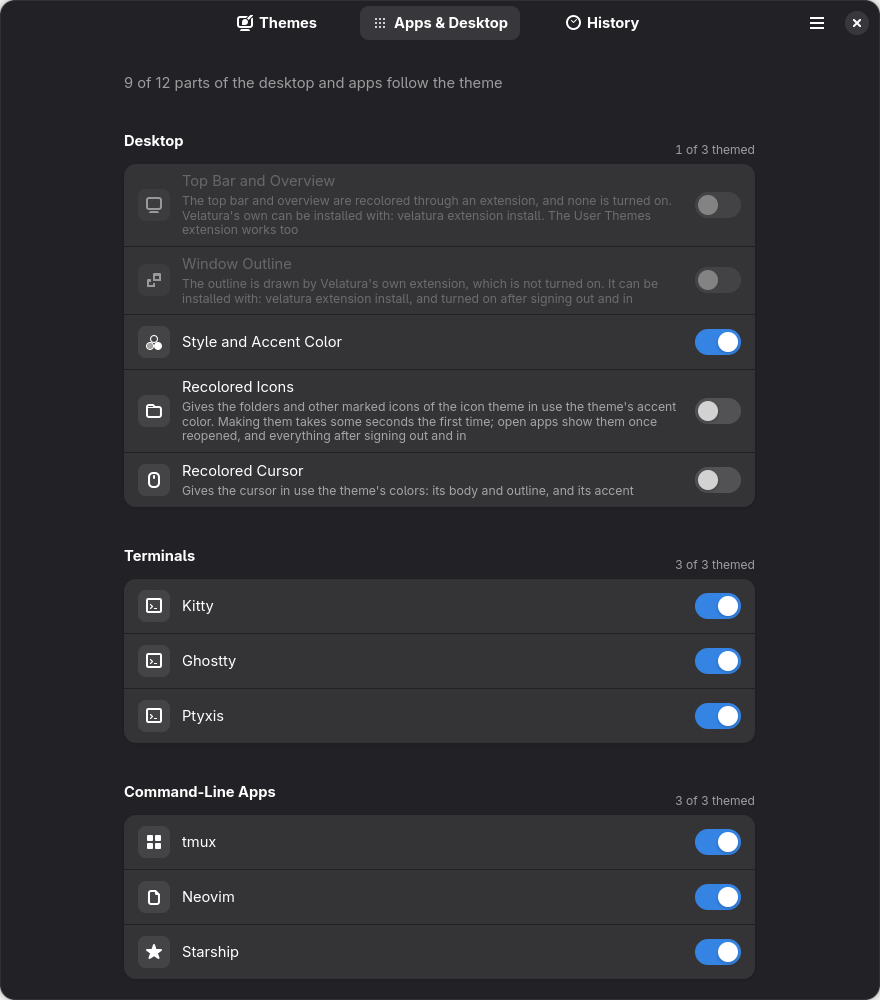
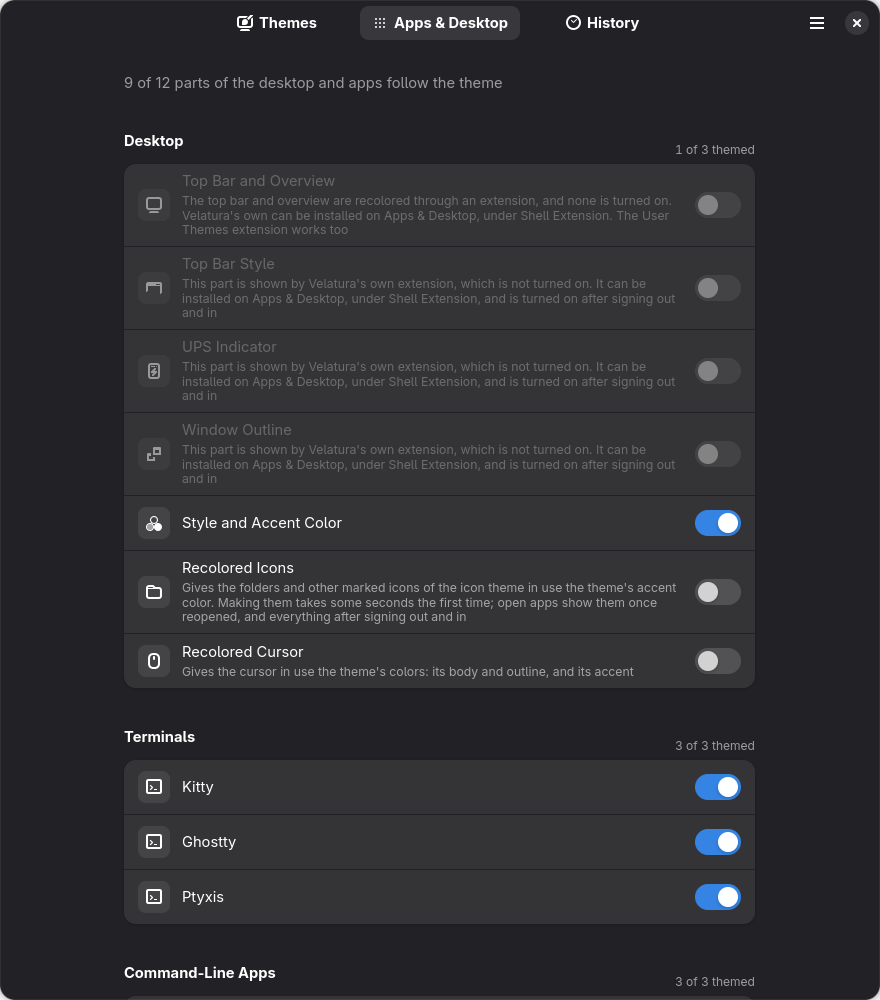
Docs: the architecture as built, the README's pictures, and neutral help text (#50)
From the deep review of 2026-10-17 (architecture reviewer, item 7; user
experience reviewer, item 18).

- docs/architecture.html described the Phase 0 design where the code
  went another way: Renderer and Connector traits, Facts, a lint
  guarding the host layer, a tests/ folder and Meson, `disconnect` and
  `--if-stale`, a translated command line, an extension that loads one
  stylesheet, connectors declaring capabilities. Each passage now says
  what was built, keeping the plan where it explains the design.
- The README's Themes and Apps & Desktop pictures are made again with
  scripts/gui-shots.sh from the same sandbox themes: the cards' menu
  buttons (D77), the Top Bar Style and UPS Indicator rows, and the rows'
  new wording.
- The command's help said "left to you", "your templates" and "your
  themes"; it is neutral now, as the interface guidelines ask.

diff --git a/docs/architecture.html b/docs/architecture.html
@@ -34,18 +34,18 @@ table{border-collapse:collapse;width:100%;margin:12px 0;font-size:14.5px}th,td{b
 ├── extension/             optional GNOME Shell companion extension (JavaScript)
 ├── data/                  desktop file, icons, metainfo
 ├── po/                    translations
-├── tests/                 goldens, fixtures (stock Shell stylesheets, old backup formats), harness
-├── docs/                  this documentation (HTML)
-└── meson.build            wraps Cargo for the GUI and installed data</pre>
+├── scripts/               the test gate, acceptance checks against real apps, install and release
+└── docs/                  this documentation (HTML)</pre>
+<p class="note">As built: each crate keeps its tests, goldens and fixtures (stock Shell stylesheets, a first-version backup) under its own <code>tests/</code>. No Meson: Cargo builds everything, and <code>scripts/install-local.sh</code> and <code>scripts/release.sh</code> install the programs and data.</p>
 <div class="wrap"><table>
 <tr><th>Crate</th><th>Responsibility</th><th>Must not</th></tr>
 <tr><td><code>velatura-theme</code></td><td>Turn a theme file into a fully resolved set of typed colours, and render that into text for each app. Pure functions; can be fuzzed; all the editor preview needs.</td><td>Read or write anything.</td></tr>
-<tr><td><code>velatura-engine</code></td><td>Everything that inspects or changes the machine. Public interface of about eight operations: probe, plan, execute, undo, history, restore, disconnect, diagnose.</td><td>Depend on GTK (it may use GLib and GIO for settings), produce user-facing prose, or ask questions.</td></tr>
-<tr><td><code>velatura-cli</code></td><td>Arguments, translated text output, JSON output.</td><td>Hold logic the GUI would have to repeat.</td></tr>
+<tr><td><code>velatura-engine</code></td><td>Everything that inspects or changes the machine. Plans (<code>plan_apply</code>, <code>plan_undo</code>, <code>plan_restore_original</code>), one <code>execute</code>, the undo walks (<code>undo_last</code>, <code>restore_to</code>), <code>history</code>, <code>status</code>, <code>parts</code>, and the modules the front ends call for the library, schedule, look, templates and extension.</td><td>Depend on GTK (it may use GLib and GIO for settings), produce user-facing prose, or ask questions.</td></tr>
+<tr><td><code>velatura-cli</code></td><td>Arguments, text output in English, JSON output. The sentences it shares with the app come from <code>velatura-text</code>.</td><td>Hold logic the GUI would have to repeat.</td></tr>
 <tr><td><code>velatura-gui</code></td><td>Presentation. Calls the engine on a background thread; no async runtime.</td><td>Write any file itself.</td></tr>
-<tr><td><code>extension</code></td><td>Load one stylesheet into the Shell and reload it when it changes.</td><td>Contain theme logic, start programs, or patch Shell internals.</td></tr>
+<tr><td><code>extension</code></td><td>Load the stylesheets the app writes (the Shell's colours, Top Bar Style, Window Outline) and reload them when they change; draw the window outline; show the UPS indicator, read from Network UPS Tools on <code>localhost</code> (<a href="decisions.html#d71">D71</a>, <a href="decisions.html#d74">D74</a>, <a href="decisions.html#d75">D75</a>).</td><td>Contain theme logic, start programs, or patch Shell internals.</td></tr>
 </table></div>
-<p>Bundled themes and all version-specific data are compiled into the binaries, so they are found the same way when running from source, from a user-prefix install, from a package or from a sandbox. Messages, hints and errors cross the engine boundary as typed values with a stable code and arguments; the CLI and GUI turn them into translated text.</p>
+<p>Bundled themes and all version-specific data are compiled into the binaries, so they are found the same way when running from source, from a user-prefix install, from a package or from a sandbox. Messages, hints and errors cross the engine boundary as typed values with a stable code and arguments; <code>velatura-text</code> turns them into sentences, translated in the app.</p>
 <p><strong>Dependency budget for the theme and engine crates:</strong> TOML reading and comment-preserving editing, JSON, error and logging facades, a hash, safe temporary files, a diff library, and GIO behind a feature switch. Colour maths, contrast, marker editing, key-file editing and placeholder substitution are written in-house. No regular-expression engine, async runtime, template engine or date library. CI fails if the crate count per binary exceeds a stated cap.</p>
 
 <h2 id="model">2. Data model</h2>
@@ -53,11 +53,12 @@ table{border-collapse:collapse;width:100%;margin:12px 0;font-size:14.5px}th,td{b
 <li><strong>Theme</strong> and <strong>Variant</strong>: parsed and validated TOML.</li>
 <li><strong>ResolvedTheme</strong>: sanitised identity, appearance, every role as a typed <code>Color</code>, and per-target slot values. A <code>Color</code> can only be formatted through a closed set of functions.</li>
 <li><strong>Instance</strong>: one concrete thing to theme, identified by target and instance, for example <code>kitty:default</code>, <code>firefox:default</code>, <code>obsidian:&lt;vault id&gt;</code>. Preferences, consent, backups, status and <code>--only</code> are all keyed this way.</li>
-<li><strong>Facts</strong>: what probing found about an instance: paths, versions, prerequisites, conflicts. Serialisable, so plans can be tested from stored facts.</li>
+<li><strong>Facts</strong> did not become a type of their own: each target's plan reads what it needs through the host layer, and tests give it a throw-away home and an in-memory settings store instead of stored facts.</li>
 <li><strong>Plan</strong>: an ordered list of Changes, each with the precondition it was computed against, plus conflicts needing an answer and hints for afterwards. Serialisable.</li>
 </ul>
 
 <h2 id="targets">3. Targets: renderer and connector</h2>
+<p class="note">As built: the renderers are pure functions in <code>velatura-theme</code>, golden-tested as planned. The connectors are not trait objects: each is a plan function in <code>velatura-engine</code> (<code>plan_kitty</code>, <code>plan_gtk4</code>, …) taking the host, the environment, the theme and the state, chosen by name in <code>targets::plan</code>, and a test plans every part. The changes are <code>CreateDir</code>, <code>RemoveDir</code>, <code>Owned</code> (a file of Velatura's, written or removed), <code>Block</code> (a marked block in a file of the user's) and <code>Setting</code>; timers are written by the schedule module, not as changes. What follows is the design as reviewed in Phase 0.</p>
 <p>The first design claimed targets could be pure planners. The review showed that is false for most of them (Kitty must read <code>kitty.conf</code>, Firefox must find profiles). Each target is now two parts with a read-only probing step between them.</p>
 <pre>trait Renderer {                       // colours -&gt; bytes. Pure, golden-tested.
     fn render(&amp;self, theme: &amp;ResolvedTheme, opts: &amp;RenderOpts) -&gt; Artifacts;
@@ -88,7 +89,7 @@ enum Change {
 </ul>
 
 <h2 id="host">4. Host-access layer</h2>
-<p>All contact with the machine goes through one layer, defined in Phase 0 and enforced by a lint that bans direct file, process and directory-lookup calls elsewhere. It has a real implementation, a failure-injecting wrapper for tests, and room for a sandboxed implementation later.</p>
+<p>All contact with the machine goes through one layer, defined in Phase 0. No lint enforces it, as was planned; it is kept by review, and the front ends reach files only through the same layer. It has a real implementation, a failure-injecting wrapper for tests, and room for a sandboxed implementation later.</p>
 <div class="wrap"><table>
 <tr><th>Part</th><th>Covers</th></tr>
 <tr><td>Directories</td><td>The host's XDG directories (never the process's own, which differ in a sandbox), system data directories taken from <code>XDG_DATA_DIRS</code>.</td></tr>
@@ -161,24 +162,23 @@ enum Change {
 <p>Consents are kept out of <code>~/.config</code> because people synchronise that directory between machines. These locations are the same in every install channel; a second install of a different channel finds the first one's state and refuses to manage the same files until told to import it.</p>
 
 <h2 id="cli">7. Command line</h2>
-<div class="note"><strong>Built so far (Phases 1a to 2e):</strong> <code>list</code>, <code>show</code>, <code>validate</code>, <code>targets</code>, <code>status</code>, <code>apply</code>, <code>switch</code> (with <code>auto</code>), <code>schedule</code>, <code>extension</code>, <code>look</code>, <code>theme</code>, <code>undo</code>, <code>history</code>, <code>restore</code>, <code>recover</code>, <code>doctor</code>. Exit codes: 0 done, 1 failed, 2 wrong usage, 3 agreement needed and nothing changed, 4 another Velatura is running, 5 done but something was left out. The rest of the list below arrives with later phases.</div>
+<div class="note"><strong>Built:</strong> <code>list</code>, <code>show</code>, <code>validate</code>, <code>targets</code>, <code>status</code>, <code>apply</code>, <code>switch</code> (with <code>set</code> and <code>auto</code>), <code>schedule</code> (with <code>set</code>, <code>off</code> and <code>follow</code>), <code>top-bar</code>, <code>extension</code>, <code>theme</code> (import, export, resolve, remove), <code>template</code>, <code>look</code>, <code>undo</code>, <code>history</code>, <code>restore</code>, <code>recover</code>, <code>doctor</code>; <code>velatura --help</code> lists them with their options. Exit codes: 0 done, 1 failed, 2 wrong usage (an unknown part or variant name included), 3 agreement needed and nothing changed, 4 another Velatura is running, 5 done but something was left out. The sketch below is the plan's.</div>
 <pre>velatura                               status and short help
 velatura list | show &lt;theme&gt; | validate &lt;file&gt; [--strict]
 velatura targets                       apps and desktop parts: instances, support, prerequisites
 velatura status                        theme in use, per-instance state, things left for you to do
-velatura apply &lt;theme&gt;[/variant] [--only ..] [--except ..] [--preview] [--yes] [--if-stale]
+velatura apply &lt;theme&gt;[/variant] [--only ..] [--except ..] [--preview] [--yes]
 velatura switch day|night|toggle|auto
 velatura undo                          (alias: revert)
 velatura history [verify]
 velatura restore &lt;id&gt; | --original [--preview]
-velatura disconnect &lt;target&gt; | --all   remove what the app added
 velatura doctor                        versions, prerequisites, conflicts, other theming tools
 velatura schedule set --day 07:00 --night 20:00 | off | status
 velatura theme import|export|resolve</pre>
 <ul>
 <li>Words match the GUI: Undo, History, Preview. One glossary is shared by GUI, CLI and docs.</li>
 <li>The first apply that adds a line to a user's file, or puts files into Neovim's settings folder when that exists, needs confirmation on a terminal or <code>--yes</code>. Without a terminal and without <code>--yes</code> it changes nothing and exits with the conflict code.</li>
-<li><code>--json</code> on every command, with a format number, stable codes and a documented exit-code table. Human output is translated; command names, JSON keys and exit codes are not.</li>
+<li><code>--json</code> on every command, with a format number, stable codes and a documented exit-code table. Human output is in English; the app is translated (Phase 2e). Command names, JSON keys and exit codes are never translated.</li>
 </ul>
 
 <h2 id="gui">8. GUI structure</h2>
@@ -189,7 +189,7 @@ velatura theme import|export|resolve</pre>
 <tr><td>target, instance</td><td>"app", on a page called Apps &amp; Desktop</td></tr>
 <tr><td>snapshot</td><td>"backup"; the list is History; the first is Original Setup</td></tr>
 <tr><td>managed line, owned file</td><td>"a line Velatura adds to your settings file", "a file Velatura creates"</td></tr>
-<tr><td>connect, disconnect</td><td>Set Up, Stop Theming</td></tr>
+<tr><td>connect, disconnect</td><td>Set Up; a part's switch turned off, taken away at the next apply (<a href="decisions.html#d78">D78</a>)</td></tr>
 <tr><td>dry run, revert, doctor, hints</td><td>Preview Changes, Undo, Troubleshooting, "Finish applying"</td></tr>
 <tr><td>support level</td><td>No badge when supported; "Unofficial" (not supported by GNOME; may stop working after an update); "Experimental"</td></tr>
 </table></div>
@@ -235,7 +235,7 @@ velatura theme import|export|resolve</pre>
 <li><strong>A self-hosted Flatpak repository</strong> with full permissions, mainly for immutable desktops.</li>
 <li><strong>Flathub: only as a reduced edition, if at all.</strong> The full app needs about a dozen permission exceptions (home configuration directories, host system data, host settings, user timers, host commands), and Flathub does not accept system utilities that mainly act on the host. Flathub also requires disclosure of AI-generated material, forbids AI-generated or AI-assisted content in the submission manifest, and refuses sandbox-escaping exceptions where it sees signs of LLM use. Since this project is being developed with AI assistance, that policy applies and the owner should read it before planning on Flathub.</li>
 </ol>
-<p>Each connector declares which host capabilities it needs, so a restricted build can switch a target off with an explanation instead of failing. Fixed in Phase 0 because they are expensive to change later: application ID, CLI and GUI binary names, gettext domain, extension identifier, timer unit names.</p>
+<p>Not built: connectors declaring the host capabilities they need. A part that cannot work here says why when it is planned, and is left out. Fixed in Phase 0 because they are expensive to change later: application ID, CLI and GUI binary names, gettext domain, extension identifier, timer unit names.</p>
 </main>
 </body>
 </html>

diff --git a/crates/velatura-text/src/lib.rs b/crates/velatura-text/src/lib.rs
@@ -41,14 +41,14 @@ Usage:
   velatura top-bar style <style>   bar for a full bar, pills for a pill per button
   velatura top-bar opacity <0-100> how opaque, as a percentage
   velatura extension               whether Velatura's own Shell extension is installed
-  velatura extension install       install it for this user (turning it on is left to you)
+  velatura extension install       install it for this user; turn it on in the Extensions app
   velatura extension remove        remove the copy Velatura installed
   velatura theme import <file>     add a theme file to the library; base16,
                                    base24 and Kitty themes are read too
   velatura theme export <theme> [<file>]   write a theme's file, or print it
   velatura theme resolve <theme>   print a theme with every color written out
-  velatura theme remove <theme>    take one of your themes out of the library
-  velatura template                your templates, and where each one writes
+  velatura theme remove <theme>    take an added theme out of the library
+  velatura template                the templates added, and where each one writes
   velatura template add <file>     check a template and add it
   velatura template remove <id>    take a template out (a copy is kept)
   velatura look                    icons, cursor, wallpaper and fonts in use
